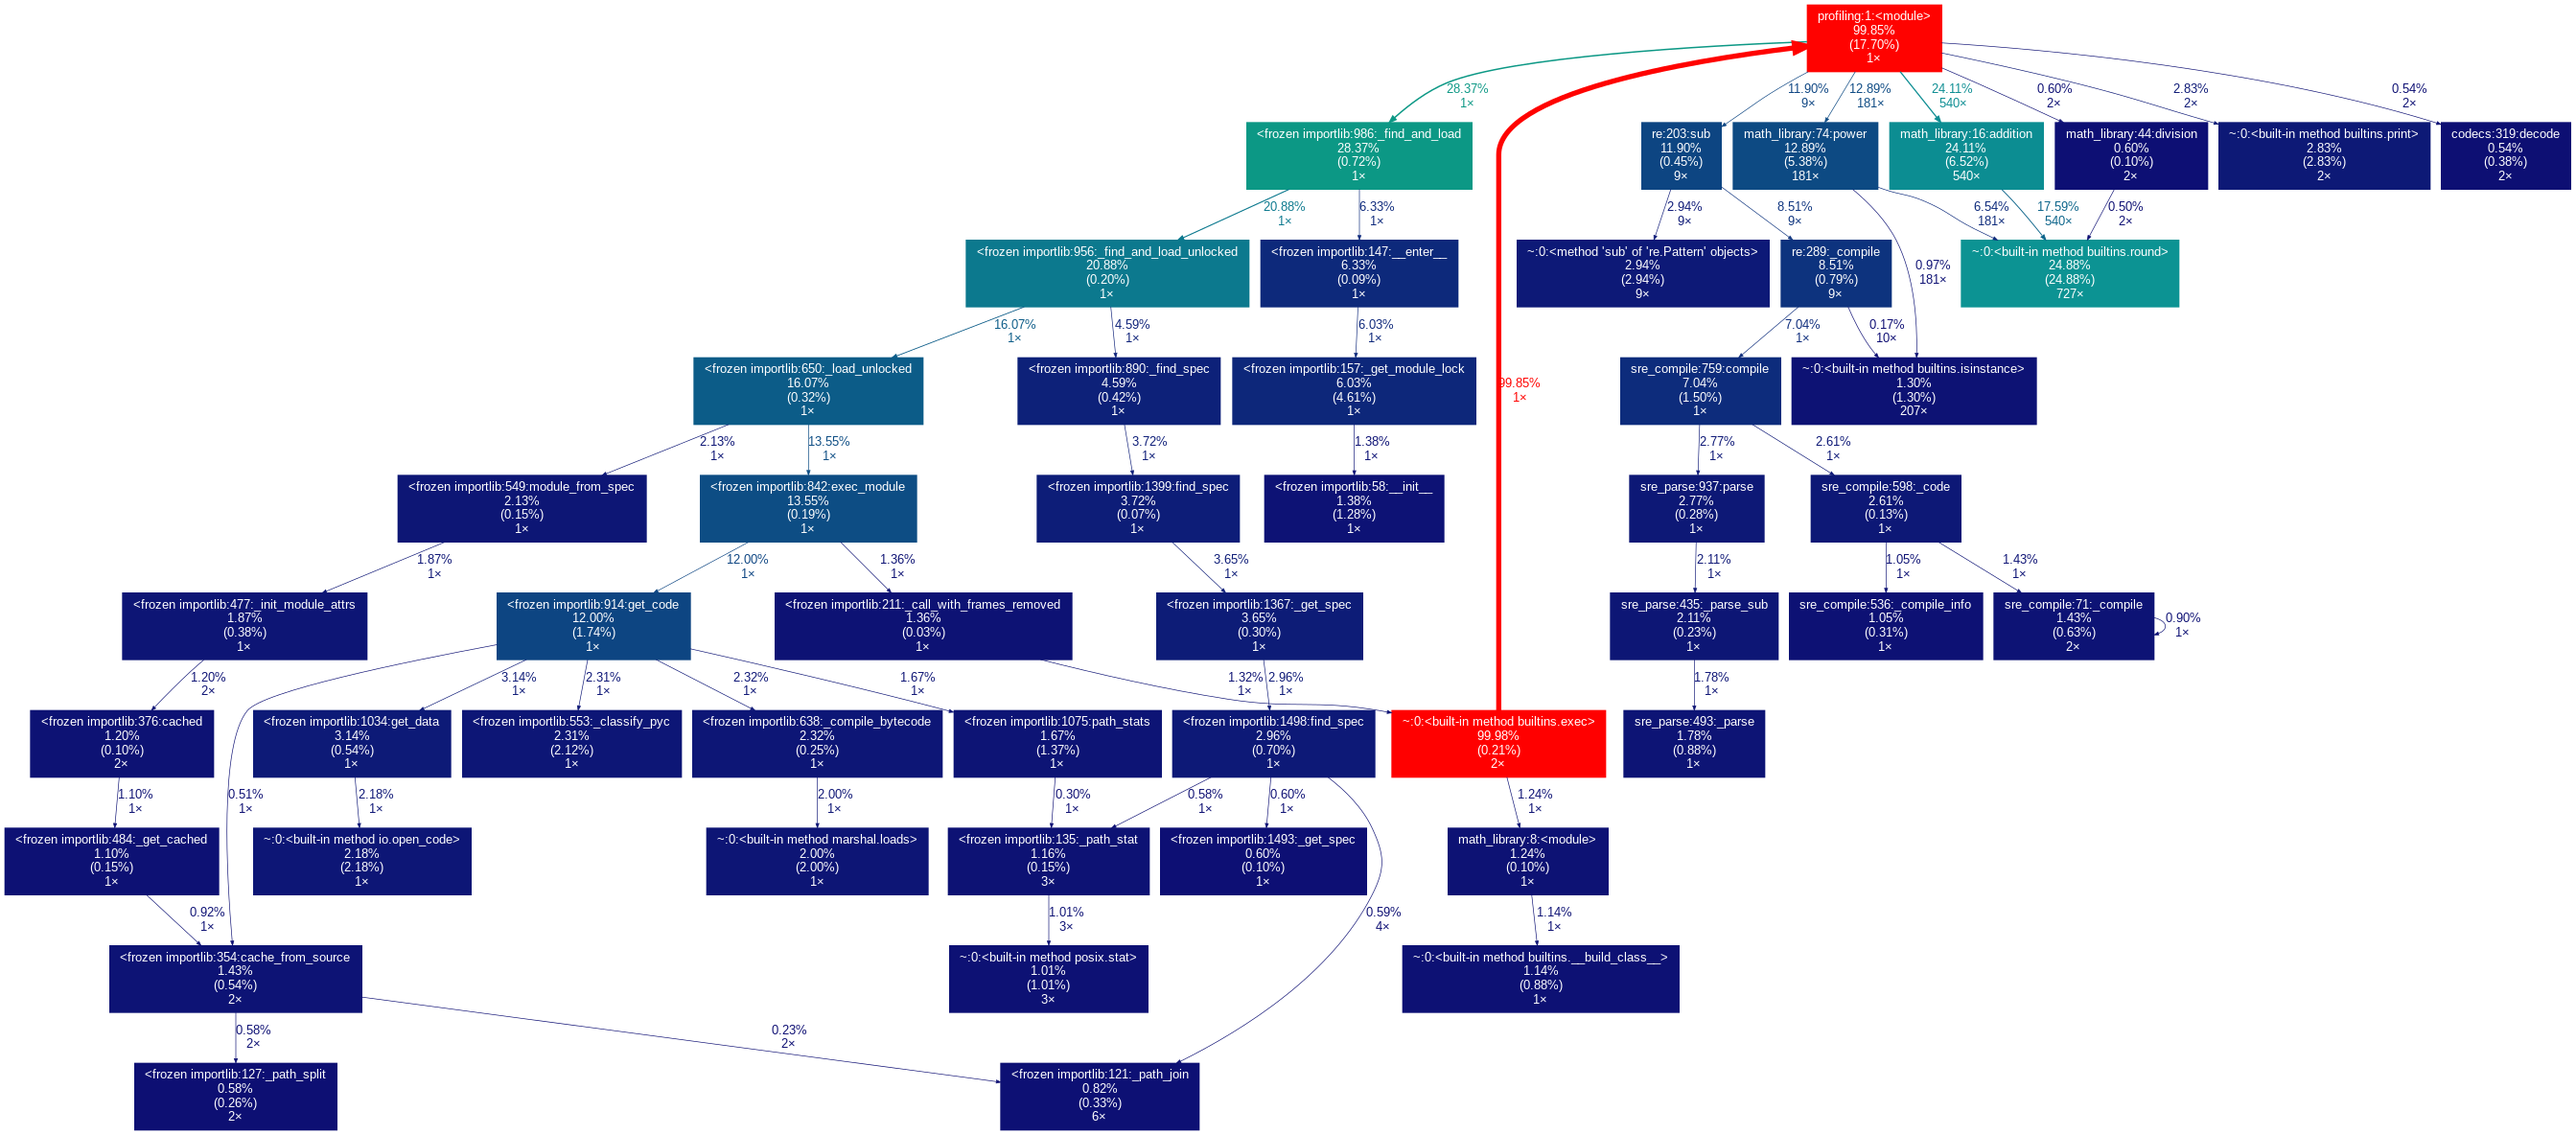
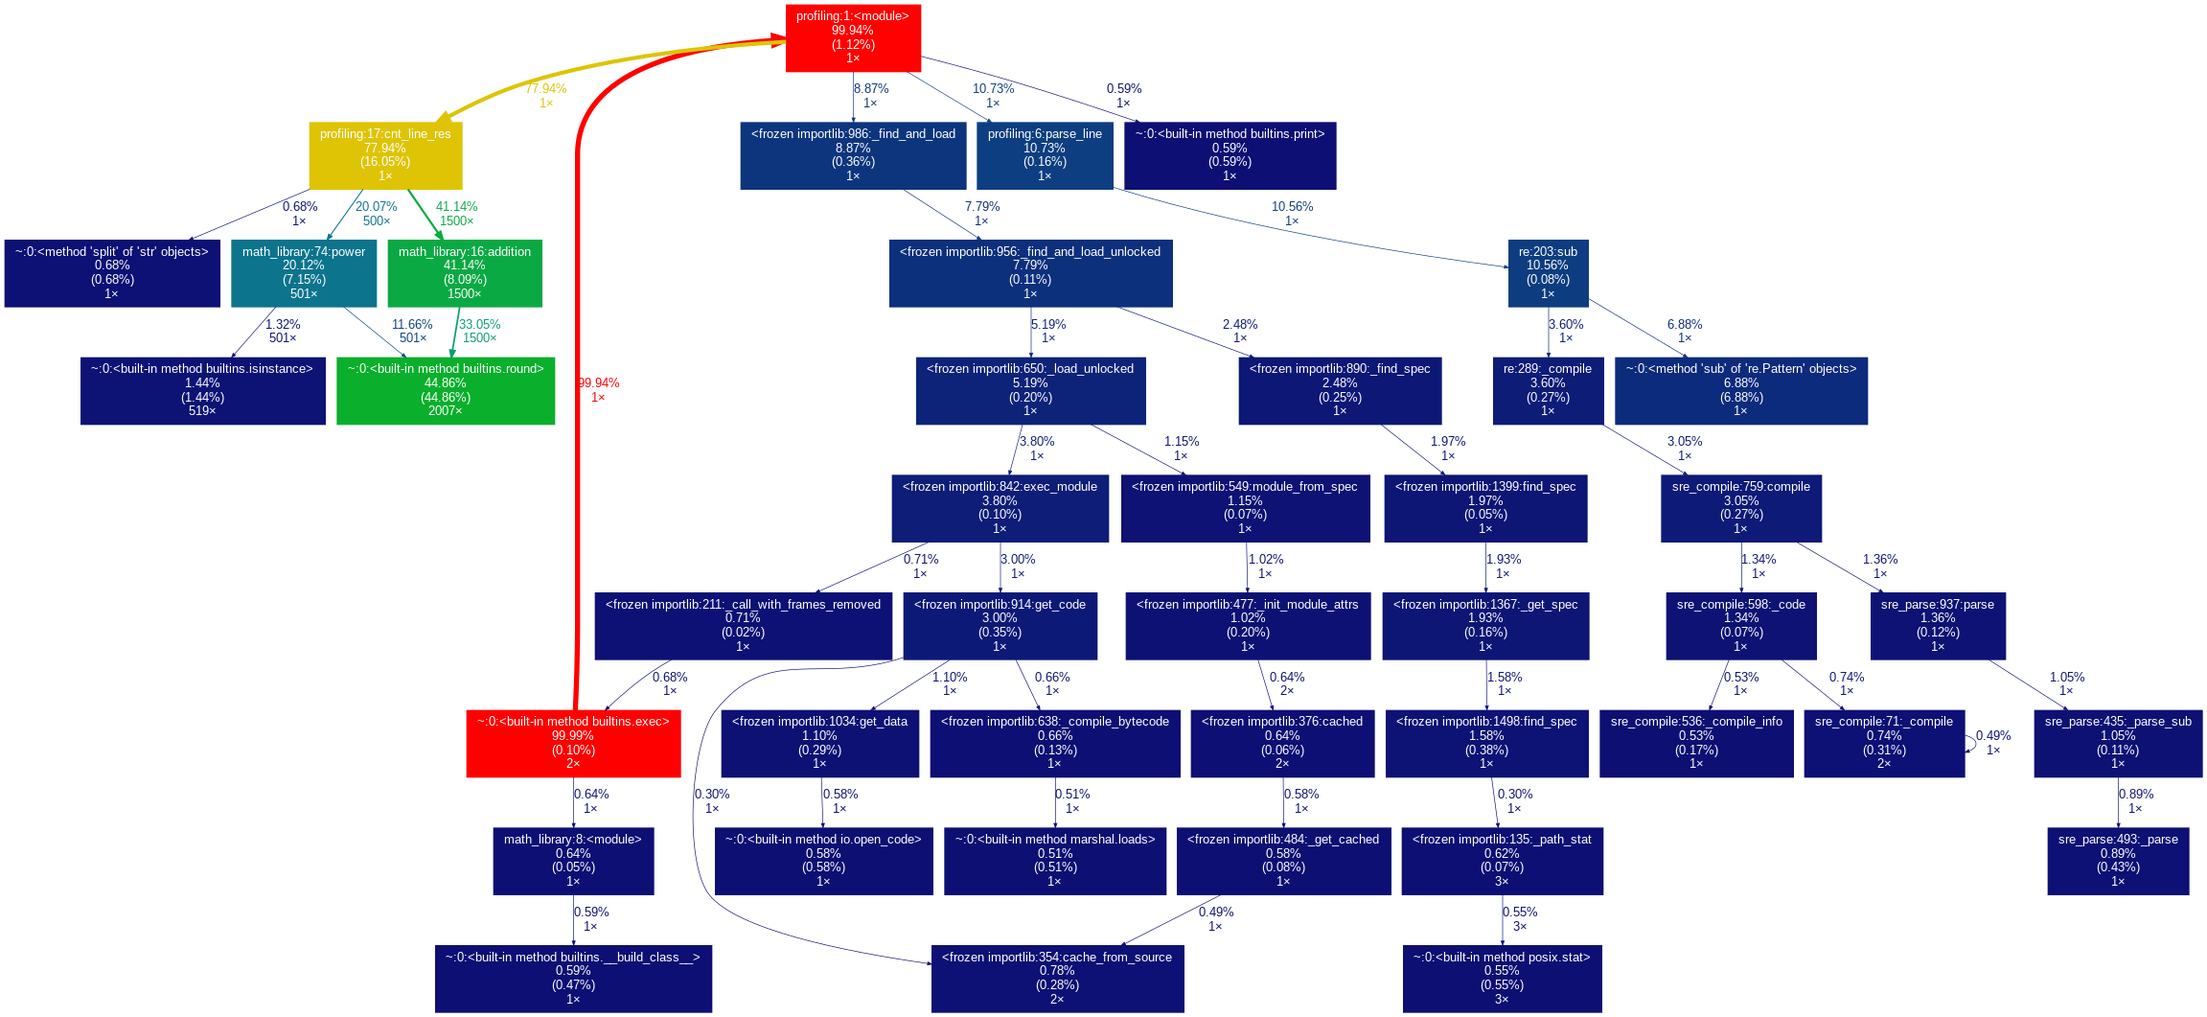
Refactored profiling.py and updated profiling outputs.
Refactored profiling.py:
1, Added function parse_line which gets rid of all unnecessary characters
2, Added function cnt_line_res which calculates needed values for each line
Updated profiling outputs:
1, Output update due to source code change

diff --git a/src/profiling.py b/src/profiling.py
@@ -2,28 +2,39 @@ import sys
 import re
 from math_library import MathFunctions
 
+
+def parse_line(_line):
+    _line = re.sub("\\s+", " ", _line.strip("\n"))
+
+    if _line[0] == " ":
+        _line = _line[1:]
+    if _line[-1] == " ":
+        _line = _line[:len(_line) - 1]
+
+    return _line
+
+
+def cnt_line_res(_data_cnt, _data_sum, _func_sum, _line):
+    for number in _line.split(" "):
+        number_flt = float(number)
+
+        _data_cnt = Math.addition(_data_cnt, 1)
+        _data_sum = Math.addition(_data_sum, number_flt)
+        _func_sum = Math.addition(_func_sum, Math.power(number_flt, 2))
+
+    return _data_cnt, _data_sum, _func_sum
+
+
 Math = MathFunctions()
 
 data_sum = 0
 data_avg = 0
 data_cnt = 0
 func_sum = 0
-data = []
 
 for line in sys.stdin:
-    line = re.sub("\\s+", " ", line.strip("\n"))
-
-    if line[0] == " ":
-        line = line[1:]
-    if line[-1] == " ":
-        line = line[:len(line) - 1]
-
-    for number in line.split(" "):
-        number_flt = float(number)
-
-        data_cnt = Math.addition(data_cnt, 1)
-        data_sum = Math.addition(data_sum, number_flt)
-        func_sum = Math.addition(func_sum, Math.power(number_flt, 2))
+    line = parse_line(line)
+    data_cnt, data_sum, func_sum = cnt_line_res(data_cnt, data_sum, func_sum, line)
 
 data_avg = Math.division(data_sum, data_cnt)
 
